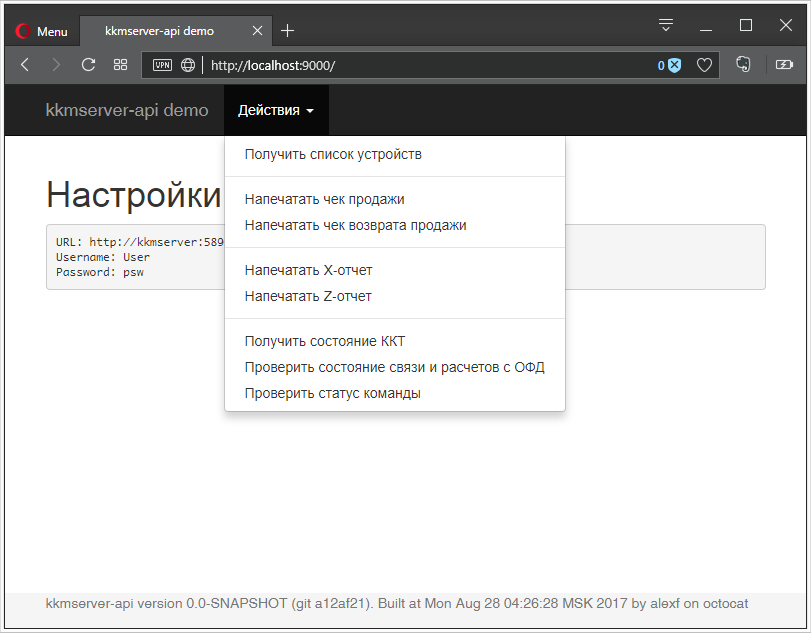
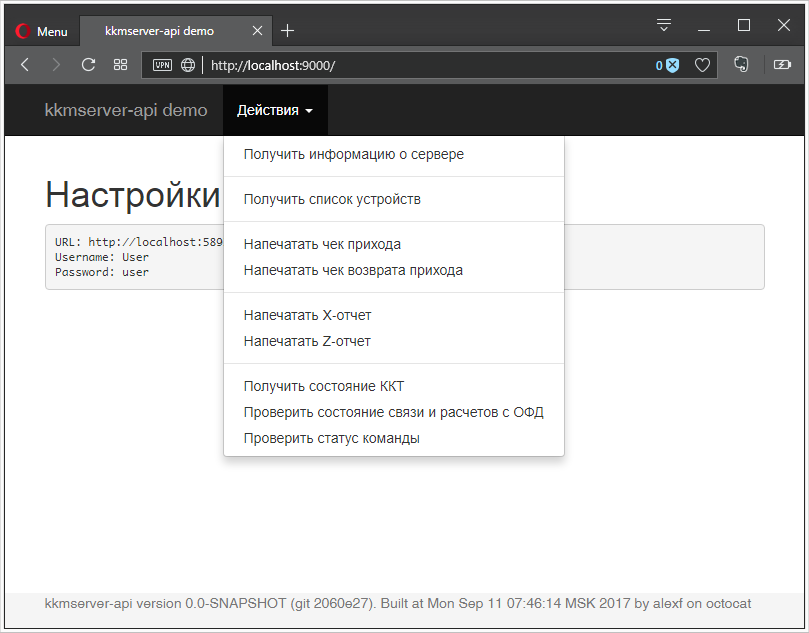
Обнови демо-проект

diff --git a/demo/app/views/template.scala.html b/demo/app/views/template.scala.html
@@ -28,6 +28,8 @@
                         <li class="dropdown">
                             <a href="#" class="dropdown-toggle" data-toggle="dropdown" role="button">Действия <span class="caret"></span></a>
                             <ul class="dropdown-menu">
+                                <li><a href="@routes.App.getServerData()">Получить информацию о сервере</a></li>
+                                <li role="separator" class="divider"></li>
                                 <li><a href="@routes.App.list()">Получить список устройств</a></li>
                                 <li role="separator" class="divider"></li>
                                 <li><a href="@routes.App.registerCheckSale()">Напечатать чек прихода</a></li>
